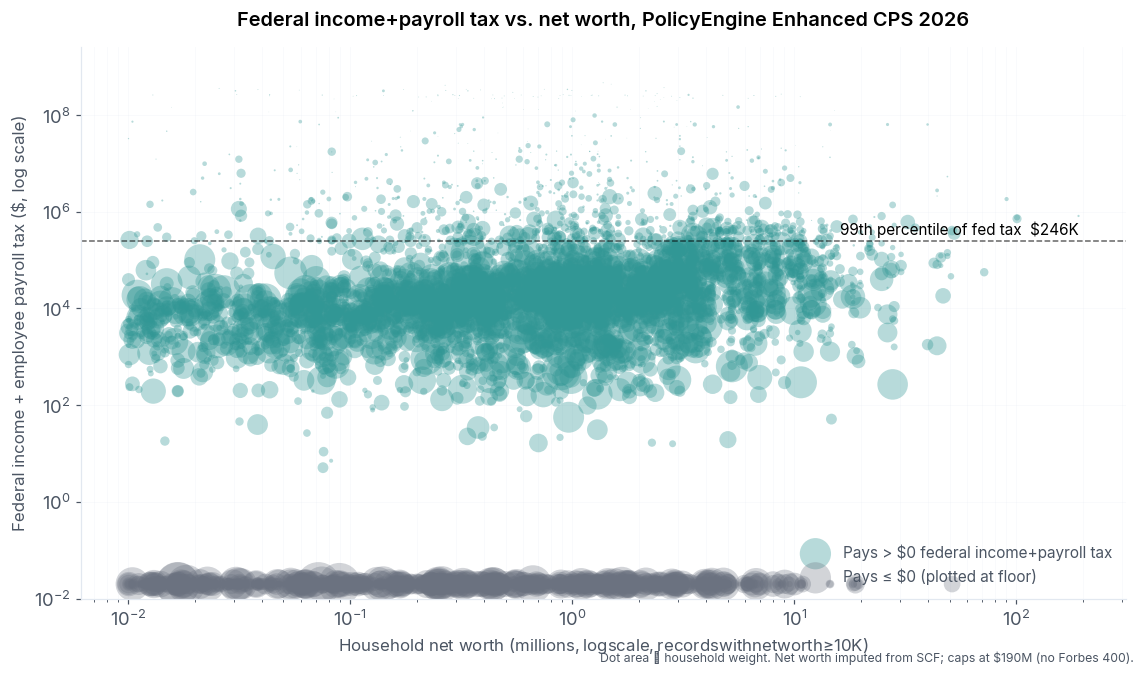
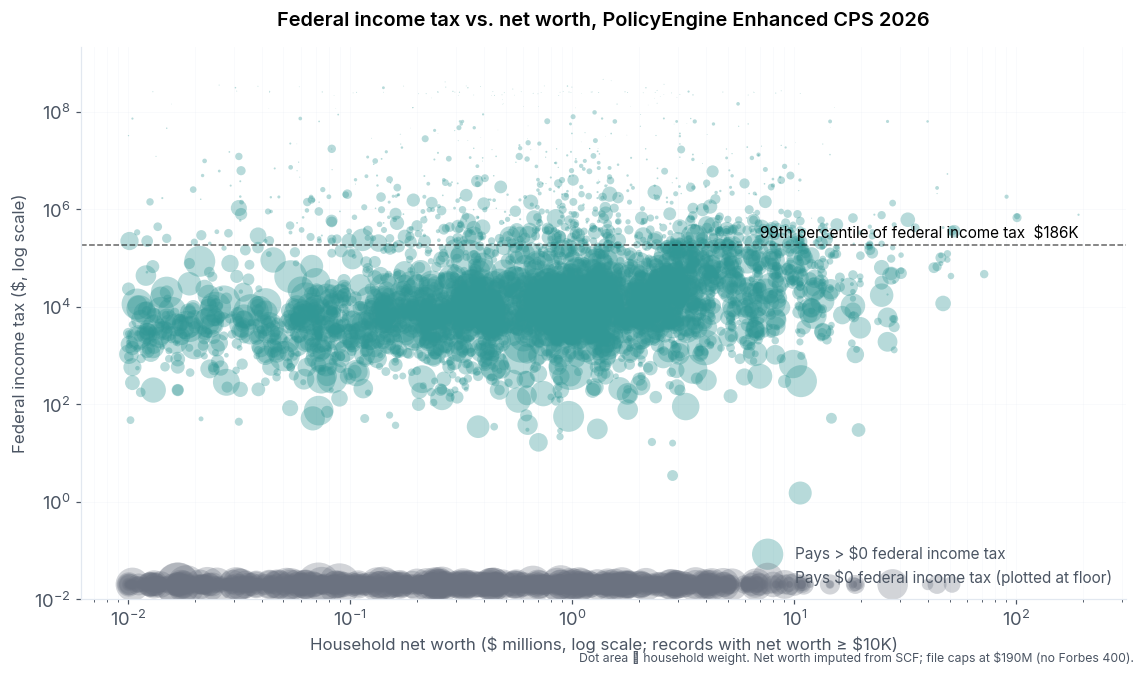
Madoff post: fix denominator slide, factual errors flagged by Codex review
- Use federal income tax only throughout (matches Madoff's claim)
- Fix $663K AGI threshold framing; add the $185K tax-paid threshold
- Fix Soros window: $0 in 2016-2018, not full 2014-2018
- Split Bezos's out-of-window zeros (2007, 2011) from in-window
- Fix 'below population average' contradiction: 2 of 3 methodologies are
  below, Splinter's 38% is above
- Add '2 microdata records' annotation to hero chart so 100.0% precision
  isn't misleading
- Regenerate scatter with income-tax-only and consistent $186K threshold
- Note top-100k shows 50.5% nonpayer share ≥ 43.9% population baseline
- Tone down 'data doesn't support this' absolutism

diff --git a/src/content/blog/madoff-billionaire-nonpayers.md b/src/content/blog/madoff-billionaire-nonpayers.md
@@ -1,6 +1,6 @@
 ---
 title: "Billionaires aren't 'just as likely' to be nonpayers as top taxpayers"
-description: "Checking Ray Madoff's claim on The Ezra Klein Show against ProPublica, PolicyEngine microdata, and some back-of-envelope estimates."
+description: "Checking Ray Madoff's claim on The Ezra Klein Show against ProPublica and PolicyEngine microdata."
 pubDate: 'Apr 20 2026'
 heroImage: './madoff-billionaire-nonpayers.png'
 ---
@@ -9,68 +9,71 @@ On this week's [Ezra Klein Show](https://www.nytimes.com/2026/04/17/opinion/ezra
 
 > When it comes to the wealthiest Americans — Zuckerberg, Bezos, Musk, Larry Ellison, all the people we hear about so often — they are just as likely to be in the 40 percent of nonpayers as they are in the top 1 percent of payers.
 
-The data doesn't support this.
+Madoff's claim is about federal income tax (the measure the "40% of nonpayers" statistic describes). Everything below uses that same denominator.
 
-The "40 percent of nonpayers" are households with $0 federal income tax liability. The top 1 percent of payers (TY2022) starts at $663,164 in adjusted gross income, per [IRS data via Tax Foundation](https://taxfoundation.org/data/all/federal/latest-federal-income-tax-data-2025/). When a centibillionaire sells stock, exercises options, or receives dividends, they clear that threshold by three to four orders of magnitude.
+The top 1% by AGI starts at $663,164 for TY2022 ([IRS via Tax Foundation](https://taxfoundation.org/data/all/federal/latest-federal-income-tax-data-2025/)). The top 1% by federal income tax paid has a higher threshold — household-level it's $185,608 in PolicyEngine's 2026 microdata (below). When a centibillionaire sells stock, exercises options, or receives dividends, they clear either threshold by three to four orders of magnitude.
 
 ## Per-person data disclosed by ProPublica
 
-Year-by-year federal income tax for the people [ProPublica](https://www.propublica.org/article/the-secret-irs-files-trove-of-never-before-seen-records-reveal-how-the-wealthiest-avoid-income-tax) named with dollar figures:
+Year-by-year federal income tax for the people [ProPublica](https://www.propublica.org/article/the-secret-irs-files-trove-of-never-before-seen-records-reveal-how-the-wealthiest-avoid-income-tax) named with dollar figures. The leak window is 2014–2018 unless noted.
 
-| Person | Documented $0 years | Non-$0 tax disclosed | Source period |
+| Person | $0 years in 2014–2018 | $0 years outside the window | Non-$0 tax disclosed |
 |---|---|---|---|
-| Warren Buffett | 0 | $23.7M total | 2014–2018 |
-| Jeff Bezos | 2007, 2011 | $973M total | 2014–2018 (+ 2007, 2011) |
-| Michael Bloomberg | unspecified "several" | $292M total; $70.7M in 2018 | 2014–2018 |
-| Elon Musk | 2018 | $455M total (2014–2018); $11B in 2021 | 2014–2018, 2021 |
-| Mark Zuckerberg | 0 in the leak | hundreds of millions/yr via 10b5-1 | 2014–2018 |
-| Larry Ellison | 0 in the leak | Oracle dividend every year | 2014–2018 |
-| Carl Icahn | 2016, 2017 | not disclosed (AGI $544M, $0 tax via interest expense) | 2014–2018 |
-| George Soros | 2016, 2017, 2018 | $0 entire disclosed window (fund losses) | 2014–2018 |
+| Warren Buffett | 0 | — | $23.7M total, 2014–2018 |
+| Jeff Bezos | 0 | 2007, 2011 | $973M total, 2014–2018 |
+| Michael Bloomberg | "several" (count not disclosed) | — | $292M total, 2014–2018; $70.7M in 2018 |
+| Elon Musk | 2018 | — | $455M total, 2014–2018; $11B in 2021 |
+| Mark Zuckerberg | 0 | — | hundreds of millions/yr via 10b5-1 |
+| Larry Ellison | 0 | — | Oracle dividend every year |
+| Carl Icahn | 2016, 2017 | — | $544M AGI across those years, $0 tax via interest expense |
+| George Soros | 2016, 2017, 2018 | — | other years not disclosed |
 
-Six $0 years across ~40 person-years of disclosed data = **~15%**. Four of the eight had at least one $0 year; four had none.
+In the 2014–2018 window: ≥6 zero years (Musk 1, Icahn 2, Soros 3, Bloomberg ≥1 unspecified) across 40 person-years, i.e. **≥15%**. Adding Bezos's out-of-window 2007 and 2011 zeros is 8+ documented zero years across the broader ProPublica coverage. Half of the eight named people had at least one documented zero year; half had none.
 
-**Extrapolation to the top 100 wealthiest over the past decade: I asked Claude to estimate.** Starting from the 15% disclosed-person-year rate and weighting the less-famous half of the Forbes 400 more heavily (more Icahn/Soros-style loss or deduction years than the Bezos/Zuckerberg-style stock-selling pattern), my estimate is a **~5–10%** per-year zero rate.
+**Extrapolation to the top 100 wealthiest over the past decade is an estimate.** Starting from the ~15% in-window disclosed rate and adjusting for the Forbes 400 containing more hedge-fund and private-equity profiles (Icahn/Soros-style loss or deduction years) than the few names ProPublica covered in detail, a plausible range is **5–15%** per-year zero rate. This is a Claude estimate, not a published number — the underlying data isn't public.
 
-For context:
-- Random US household in a given year: ~40% pay $0 federal income tax ([Tax Policy Center](https://taxpolicycenter.org/briefing-book/who-doesnt-pay-federal-income-taxes)), ~1% in top 1% of payers (by definition). Ratio nonpayer : top-1%-payer = **40 : 1**.
-- Top 100 wealthiest in a given year: ~5–10% estimated $0 rate, ~80–90% estimated top-1%-of-payers rate (Claude estimates, grounded in the disclosed data above). Ratio ≈ **1 : 10**.
+Against Madoff's claim, the meaningful comparison is:
 
-Madoff's claim implies a 1:1 ratio for the wealthy. The data and estimates give something closer to 1:10 — inverted from what "just as likely" implies.
+- Random US household in a given year: 40–44% pay $0 federal income tax ([TPC](https://taxpolicycenter.org/briefing-book/who-doesnt-pay-federal-income-taxes); 43.9% in PolicyEngine's 2026 file below), ~1% are in the top 1% of payers. Ratio nonpayer : top-1%-payer = **~40 : 1**.
+- Top 100 wealthiest in a given year: 5–15% estimated zero rate; top-1%-of-payers rate not directly measured but most years' disclosed tax bills for Bezos, Musk, Bloomberg, and Zuckerberg put them well past the top-1% threshold. Directionally the ratio is inverted from the population.
 
 ## What the microdata says
 
-[PolicyEngine's Enhanced CPS](https://policyengine.github.io/policyengine-us/) imputes household net worth from the Federal Reserve's Survey of Consumer Finances. Against the 2026 microdata, the 99th percentile of federal income+payroll tax at the household level is $213,112 (script: [gist](https://gist.github.com/MaxGhenis/3f10cc98b643e0a76e74eae9afe35082)):
+[PolicyEngine's Enhanced CPS](https://policyengine.github.io/policyengine-us/) imputes household net worth from the Federal Reserve's Survey of Consumer Finances. The 99th percentile of federal income tax at the household level is $185,608 in the 2026 file (script: [gist](https://gist.github.com/MaxGhenis/3f10cc98b643e0a76e74eae9afe35082)):
 
-| Wealthiest N households | Records | Net-worth range | Share in top 1% of fed-tax payers | Share paying ≤ $0 |
+| Wealthiest N households | Records | Net-worth range | Top 1% of income-tax payers | Pay $0 |
 |---|---|---|---|---|
 | Top 100 | 2 | $100.6M – $190.3M | 100.0% | 0.0% |
 | Top 1,000 | 2 | $100.6M – $190.3M | 100.0% | 0.0% |
 | Top 10,000 | 7 | $51.3M – $190.3M | 78.1% | 10.3% |
-| Top 100,000 | 27 | $30.2M – $190.3M | 21.5% | 17.4% |
-| Top 1,000,000 | 135 | $13.4M – $190.3M | 4.3% | 7.1% |
-| All US households | 6,876 | — | 1.0% | 31.9% |
+| Top 100,000 | 27 | $30.2M – $190.3M | 21.5% | 50.5% |
+| Top 1,000,000 | 135 | $13.4M – $190.3M | 4.2% | 34.0% |
+| All US households | 6,876 | — | 1.0% | 43.9% |
 
-"Records" is the number of underlying microdata households contributing to each weighted group. The top 100 and top 1,000 both come from the same 2 records. Net worth in Enhanced CPS is imputed from the [Survey of Consumer Finances](https://www.federalreserve.gov/econres/scfindex.htm), which by design excludes Forbes 400-style respondents and truncates wealth at around $190M in the file. The Forbes 400 uses direct estimates of billionaire wealth and isn't integrated into the SCF or into PE's microdata. So this test covers the wealth range the microdata can see ($30M–$190M), not actual centibillionaires.
+"Records" is the number of underlying microdata households contributing to each weighted group. The top 100 and top 1,000 both come from the same 2 records, so the 100.0% and 0.0% point estimates have no meaningful precision at that end — they're saying "the two synthetic records at the top of the file both clear the threshold and both have positive tax." The top-10,000 and top-100,000 rows are based on more records and are more informative about the $30M–$190M range.
 
-In the $30M–$190M range that is in the data, the nonpayer share falls from 31.9% (all households) to 17.4% (top 100,000 by wealth) to 0% (top 1,000).
+Net worth in Enhanced CPS is imputed from the [Survey of Consumer Finances](https://www.federalreserve.gov/econres/scfindex.htm), which excludes Forbes 400-style respondents by design and truncates the upper tail at around $190M. The Forbes 400 uses direct estimates of billionaire wealth and isn't integrated into the SCF or into PE's microdata. So the microdata can't directly test Madoff's claim for Zuckerberg, Bezos, Musk, or Ellison — only for the visible $30M–$190M range.
+
+Within that range, the top-100,000 row is notable: 50.5% pay $0 federal income tax, higher than the 43.9% population baseline. These are wealth-holders whose wealth is concentrated in housing, retirement accounts, or unrealized stock gains, with little realized annual income. This is the wealth profile that comes closest to matching Madoff's framing — but it's an order of magnitude less wealthy than Forbes 400 territory, and the share of nonpayers drops toward zero as you move further up the wealth ladder in the file.
 
 Household-level scatter, log-log:
 
-![Scatter of federal income+payroll tax vs household net worth, PolicyEngine Enhanced CPS 2026](./madoff-scatter.png)
+![Scatter of federal income tax vs household net worth, PolicyEngine Enhanced CPS 2026](./madoff-scatter.png)
 
-Each dot is a household record; area is proportional to the record's weight. Households paying ≤ $0 are plotted at a floor below the positive range. The gray floor thins out above ~$30M in net worth and is empty above ~$100M.
+Each dot is a household record; area is proportional to the record's weight. Households paying $0 are plotted at a floor below the positive range. The gray floor thins above ~$30M in net worth and is empty above ~$100M in this file.
 
 ## Other estimates of what the wealthiest pay
 
 The rate you get for the top of the distribution depends on the denominator:
 
 - **Tax / reported AGI.** For the Forbes 400, ProPublica's [top-400 interactive table](https://projects.propublica.org/americas-highest-incomes-and-taxes-revealed/) lists individual effective federal income tax rates averaged 2013–2018; most are in the 17–24% range.
-- **Tax / (AGI + untaxed corporate profits).** [Saez, Yagan, Zucman et al. (NBER w34170, 2025)](https://www.nber.org/papers/w34170) put the top 0.0002%'s total federal rate at 24% for 2018–2020, vs. 30% population-wide. [Splinter's reanalysis](https://www.davidsplinter.com/BillionaireTaxRate.pdf) adjusts for multi-return Forbes families and different corporate-tax imputation and gets 38%.
+- **Tax / (AGI + untaxed corporate profits).** [Saez, Yagan, Zucman et al. (NBER w34170, 2025)](https://www.nber.org/papers/w34170) put the top 0.0002% total federal rate at 24% for 2018–2020, vs. 30% population-wide. [Splinter's reanalysis](https://www.davidsplinter.com/BillionaireTaxRate.pdf) adjusts for multi-return Forbes families and different corporate-tax imputation and arrives at 38% — above the population average.
 - **Tax / comprehensive income including unrealized capital gains.** The [OMB/CEA 2021 analysis](https://www.whitehouse.gov/cea/written-materials/2021/09/23/what-is-the-average-federal-individual-income-tax-rate-on-the-wealthiest-americans/) put the top 400 at 8.2%. ProPublica's 3.4% "true tax rate" divides tax paid by change in net worth over the period.
 
-None of these studies — including ProPublica's follow-ups in the [Secret IRS Files series](https://www.propublica.org/series/the-secret-irs-files) — report the share of centibillionaire person-years with $0 federal income tax, because per-person year-by-year data isn't public. The question Madoff's claim depends on is structurally harder to answer than the rate question.
+None of these studies — including ProPublica's follow-ups in the [Secret IRS Files series](https://www.propublica.org/series/the-secret-irs-files) — report the share of centibillionaire person-years with $0 federal income tax, because per-person year-by-year data isn't public. The question Madoff's framing depends on isn't directly measured in the published literature.
 
 ## Rate vs. frequency
 
-The rate measures (3.4% / 8.2% / 24–38%) and the frequency framing Madoff used ("just as likely to be in the 40% of nonpayers as the top 1% of payers") answer different questions about the same group. On the rate side, all three methodologies put the richest below the population average once unrealized gains are in the denominator. On the frequency side — where the denominator is year-by-year filing status — the top-100 ratio (nonpayer : top-1%-payer) estimated above is ~1:10, and the 40%-of-nonpayers population average is a different group dominated by retirees, students, and low-income filers.
+Two of the three rate methodologies (ProPublica 3.4%, OMB/CEA 8.2%, Saez-Zucman 24%) put the richest below the 30% population average; Splinter's 38% recalculation is above. The rate story is more contested than a single headline number suggests.
+
+The frequency framing — "just as likely to be in the 40% of nonpayers as the top 1% of payers" — is a different question. On the frequency side: the 43.9% population-wide income-tax nonpayer share is dominated by retirees, students, and low-earning filers with refundable credits, and a random household's ratio of (nonpayer year : top-1%-payer year) is ~40:1. For the top 100 wealthiest, the estimated zero-year rate is 5–15% and the top-1%-payer rate in most disclosed years is high — directionally the reverse of Madoff's "just as likely."
